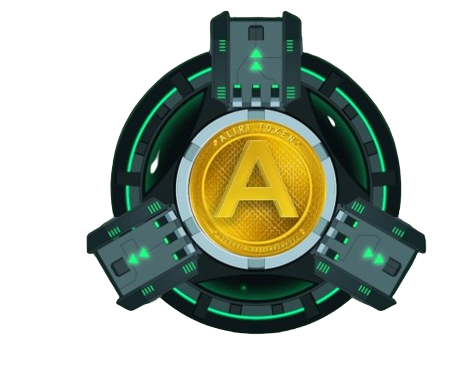
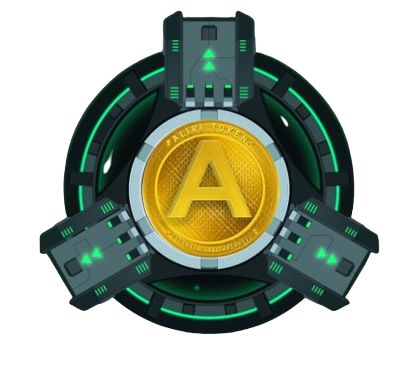
update

diff --git a/index.html b/index.html
@@ -210,7 +210,7 @@ legend: {position: 'none'},
                 </div>
                 <div class="col-12 col-md-6 col-lg-6 image-order wow fadeInRight mainheaad" data-wow-duration="1.5s" data-wow-delay="1.2s">
                     <div class="slider-image">
-                        <img src="images/image1.png" class="img-fluid animated" alt="Slider-Image" width="100%">
+                        <img src="images/image1.png" class="img-fluid animated" alt="Slider-Image" width="80%">
                     </div>
                 </div>
             </div>
